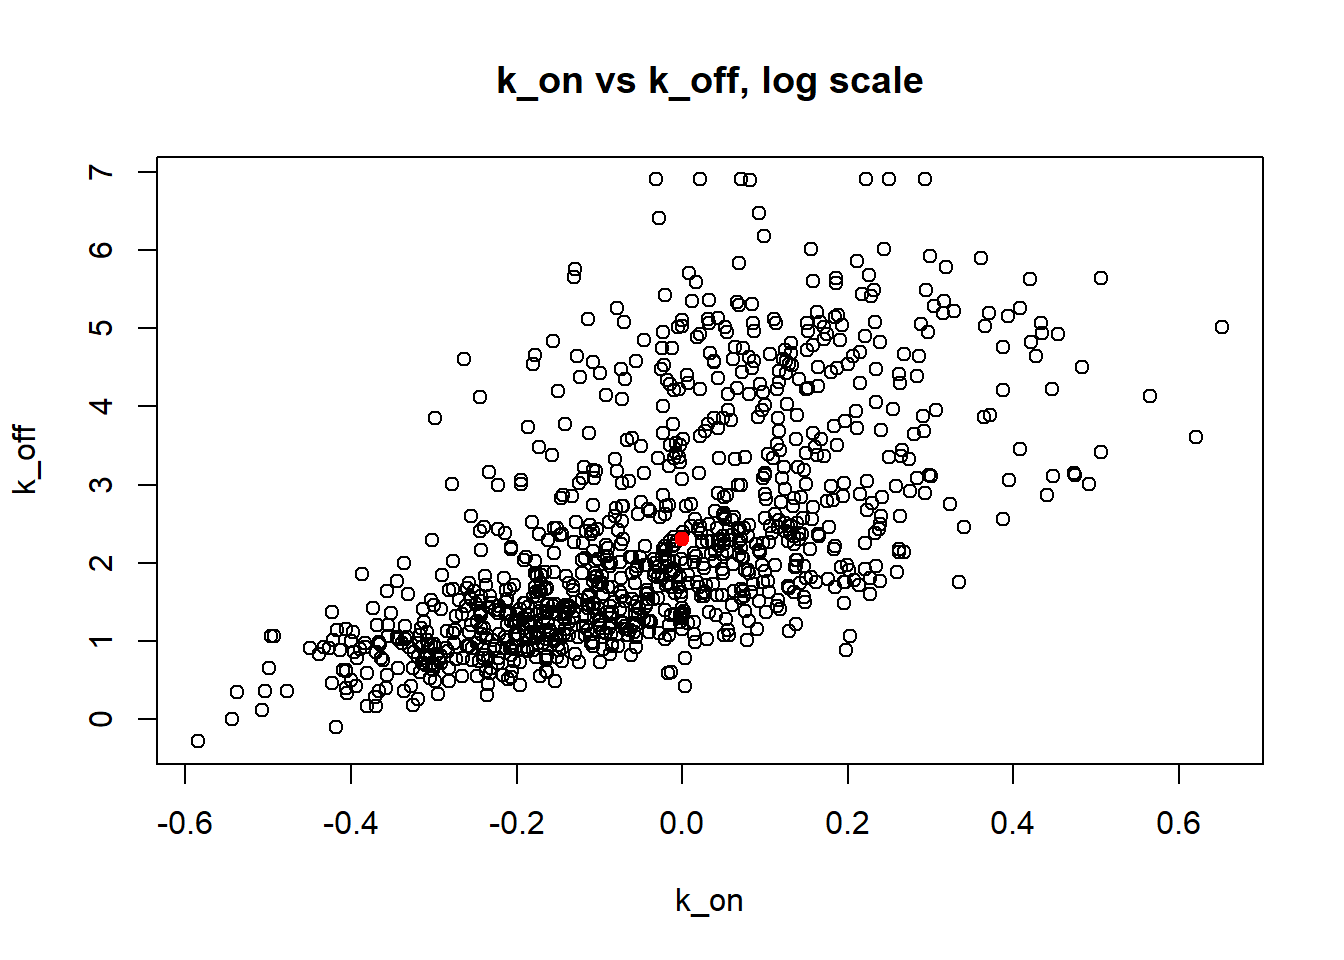
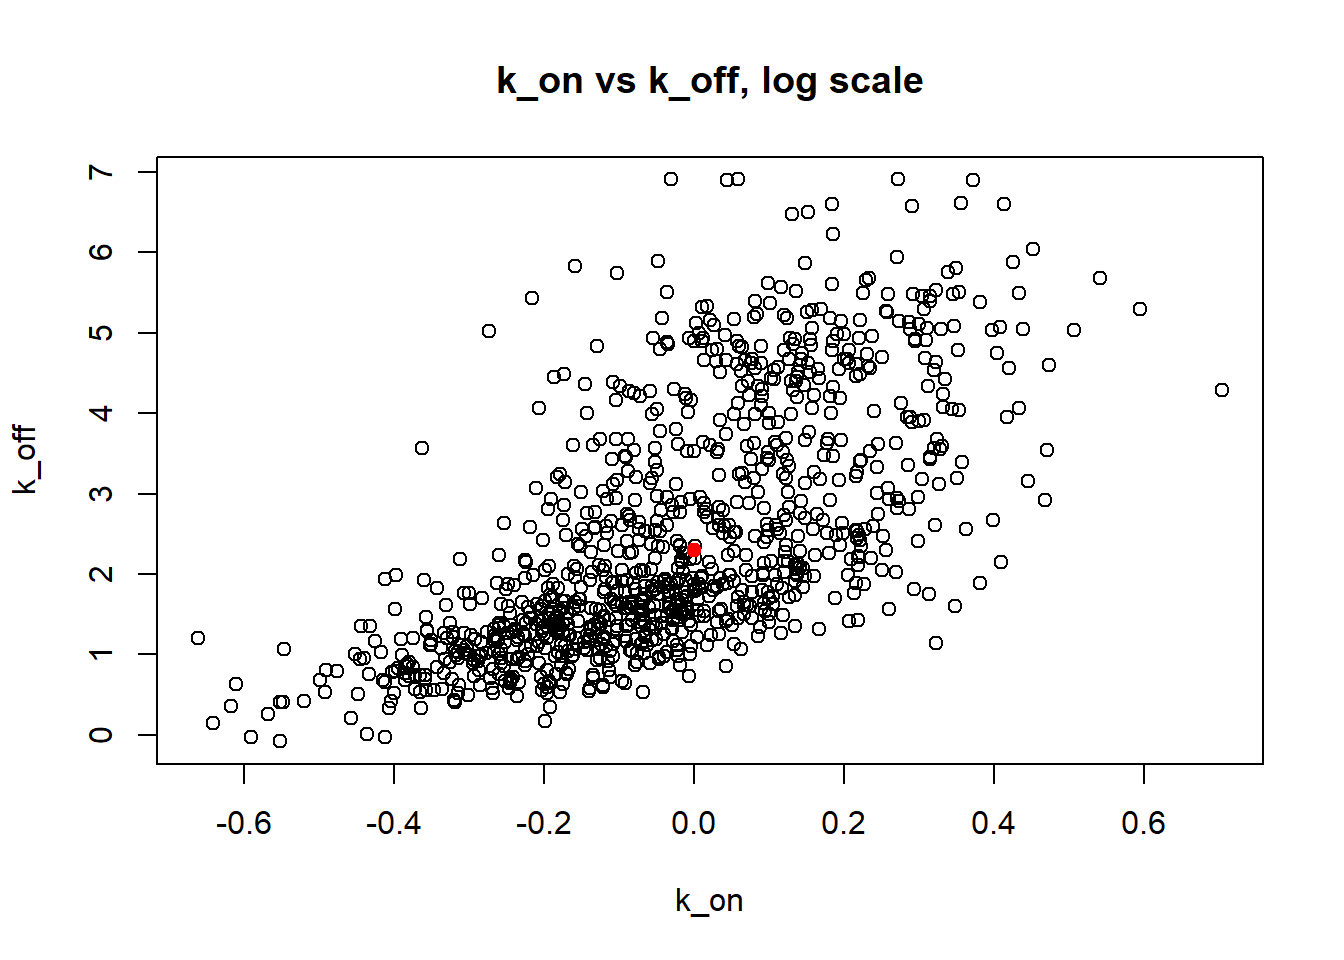
Build site.

diff --git a/docs/MLE_estimates.html b/docs/MLE_estimates.html
@@ -344,7 +344,7 @@ div.section {
 <div class="tab-content">
 <div id="summary" class="tab-pane fade in active">
 <p>
-<strong>Last updated:</strong> 2019-12-25
+<strong>Last updated:</strong> 2019-12-27
 </p>
 <p>
 <strong>Checks:</strong> <span class="glyphicon glyphicon-ok text-success" aria-hidden="true"></span> 6 <span class="glyphicon glyphicon-exclamation-sign text-danger" aria-hidden="true"></span> 1
@@ -459,32 +459,16 @@ analysis/MLE.py
 <div class="panel panel-default">
 <div class="panel-heading">
 <p class="panel-title">
-<a data-toggle="collapse" data-parent="#workflowr-checks" href="#strongRepositoryversionstrongahrefhttpsgithubcomMargareth2407ThesissingleRNAtree2bc1ff5e52b6066f161ee2dd56464614759ae28dtargetblank2bc1ff5a"> <span class="glyphicon glyphicon-ok text-success" aria-hidden="true"></span> <strong>Repository version:</strong> <a href="https://github.com/Margareth2407/Thesis_single_RNA/tree/2bc1ff5e52b6066f161ee2dd56464614759ae28d" target="_blank">2bc1ff5</a> </a>
+<a data-toggle="collapse" data-parent="#workflowr-checks" href="#strongRepositoryversionstrongahrefhttpsgithubcomMargareth2407ThesissingleRNAtreee3a1566265f0b73a2f52b107f99cc8451972a6fetargetblanke3a1566a"> <span class="glyphicon glyphicon-ok text-success" aria-hidden="true"></span> <strong>Repository version:</strong> <a href="https://github.com/Margareth2407/Thesis_single_RNA/tree/e3a1566265f0b73a2f52b107f99cc8451972a6fe" target="_blank">e3a1566</a> </a>
 </p>
 </div>
[2 lines of base64/hex data omitted]
 <div class="panel-body">
 <p>
 Great! You are using Git for version control. Tracking code development and connecting the code version to the results is critical for reproducibility. The version displayed above was the version of the Git repository at the time these results were generated. <br><br> Note that you need to be careful to ensure that all relevant files for the analysis have been committed to Git prior to generating the results (you can use <code>wflow_publish</code> or <code>wflow_git_commit</code>). workflowr only checks the R Markdown file, but you know if there are other scripts or data files that it depends on. Below is the status of the Git repository when the results were generated:
 </p>
 <pre><code>
-Ignored files:
-    Ignored:    .RData
-    Ignored:    .Rhistory
-    Ignored:    .Rproj.user/
-    Ignored:    analysis/.RData
-    Ignored:    analysis/.Rhistory
-
-Untracked files:
-    Untracked:  analysis/MLE_bootstrap.py
-    Untracked:  analysis/MLE_bootstrap_N_variability.Rmd
-
-Unstaged changes:
-    Modified:   Data_sim.Rmd
-    Deleted:    analysis/Data_sim.Rmd
-    Modified:   analysis/MLE.py
-    Modified:   analysis/MLE_bootstrap.Rmd
-
+working directory clean
 </code></pre>
 <p>
 Note that any generated files, e.g. HTML, png, CSS, etc., are not included in this status report because it is ok for generated content to have uncommitted changes.
@@ -526,44 +510,44 @@ There are no past versions. Publish this analysis with <code>wflow_publish()</co
 <div id="i-small-k_on-and-k_off-case" class="section level2">
 <h2>I) Small <span class="math inline">\(k_{on}\)</span> and <span class="math inline">\(k_{off}\)</span> case:</h2>
 <p><img src="figure/MLE_estimates.Rmd/unnamed-chunk-2-1.png" width="672" style="display: block; margin: auto;" /></p>
-<pre><code>[1] &quot;true k_on is 0.1; k_on mean 0.101 k_on median 0.1&quot;</code></pre>
+<pre><code>[1] &quot;true k_on is 0.1; k_on mean 0.102 k_on median 0.1&quot;</code></pre>
 <p><img src="figure/MLE_estimates.Rmd/unnamed-chunk-2-2.png" width="672" style="display: block; margin: auto;" /></p>
-<pre><code>[1] &quot;true k_off is 0.1; k_off mean 0.103 k_off median 0.101&quot;</code></pre>
+<pre><code>[1] &quot;true k_off is 0.1; k_off mean 0.103 k_off median 0.1&quot;</code></pre>
 <p><img src="figure/MLE_estimates.Rmd/unnamed-chunk-2-3.png" width="672" style="display: block; margin: auto;" /></p>
-<pre><code>[1] &quot;true k_r is 100; k_r mean 99.989 k_r median 99.991&quot;</code></pre>
+<pre><code>[1] &quot;true k_r is 100; k_r mean 100.004 k_r median 100.047&quot;</code></pre>
 <p><img src="figure/MLE_estimates.Rmd/unnamed-chunk-2-4.png" width="672" style="display: block; margin: auto;" /><img src="figure/MLE_estimates.Rmd/unnamed-chunk-2-5.png" width="672" style="display: block; margin: auto;" /><img src="figure/MLE_estimates.Rmd/unnamed-chunk-2-6.png" width="672" style="display: block; margin: auto;" /></p>
 <p>Small <span class="math inline">\(k_{on}\)</span> and <span class="math inline">\(k_{off}\)</span> leads to bimodal distribution. As we see from histograms, mean and median MLE estimates are centered around true value.</p>
 </div>
 <div id="ii-large-k_on-and-k_off-case" class="section level2">
 <h2>II) Large <span class="math inline">\(k_{on}\)</span> and <span class="math inline">\(k_{off}\)</span> case:</h2>
 <p><img src="figure/MLE_estimates.Rmd/unnamed-chunk-3-1.png" width="672" style="display: block; margin: auto;" /></p>
-<pre><code>[1] &quot;true k_on is 10; k_on mean 11.683 k_on median 9.893&quot;</code></pre>
+<pre><code>[1] &quot;true k_on is 10; k_on mean 11.454 k_on median 9.993&quot;</code></pre>
 <p><img src="figure/MLE_estimates.Rmd/unnamed-chunk-3-2.png" width="672" style="display: block; margin: auto;" /></p>
-<pre><code>[1] &quot;true k_off is 10; k_off mean 70.771 k_off median 9.249&quot;</code></pre>
+<pre><code>[1] &quot;true k_off is 10; k_off mean 56.836 k_off median 9.513&quot;</code></pre>
 <p><img src="figure/MLE_estimates.Rmd/unnamed-chunk-3-3.png" width="672" style="display: block; margin: auto;" /></p>
-<pre><code>[1] &quot;true k_r is 100; k_r mean 264.192 k_r median 97.03&quot;</code></pre>
+<pre><code>[1] &quot;true k_r is 100; k_r mean 209.748 k_r median 98.66&quot;</code></pre>
 <p><img src="figure/MLE_estimates.Rmd/unnamed-chunk-3-4.png" width="672" style="display: block; margin: auto;" /><img src="figure/MLE_estimates.Rmd/unnamed-chunk-3-5.png" width="672" style="display: block; margin: auto;" /><img src="figure/MLE_estimates.Rmd/unnamed-chunk-3-6.png" width="672" style="display: block; margin: auto;" /></p>
 <p>Large <span class="math inline">\(k_{on}\)</span> and <span class="math inline">\(k_{off}\)</span> case lead to Poisson or negative binomial distribution and as we can see parameters are not identifiable.</p>
 </div>
 <div id="iii-large-value-if-k_off-and-small-k_on-case" class="section level2">
 <h2>III) Large value if <span class="math inline">\(k_{off}\)</span> and small <span class="math inline">\(k_{on}\)</span> case:</h2>
 <p><img src="figure/MLE_estimates.Rmd/unnamed-chunk-4-1.png" width="672" style="display: block; margin: auto;" /></p>
-<pre><code>[1] &quot;true k_on is 1; k_on mean 0.98 k_on median 0.959&quot;</code></pre>
+<pre><code>[1] &quot;true k_on is 1; k_on mean 0.994 k_on median 0.967&quot;</code></pre>
 <p><img src="figure/MLE_estimates.Rmd/unnamed-chunk-4-2.png" width="672" style="display: block; margin: auto;" /></p>
-<pre><code>[1] &quot;true k_off is 10; k_off mean 38.834 k_off median 6.684&quot;</code></pre>
+<pre><code>[1] &quot;true k_off is 10; k_off mean 44.223 k_off median 7.102&quot;</code></pre>
 <p><img src="figure/MLE_estimates.Rmd/unnamed-chunk-4-3.png" width="672" style="display: block; margin: auto;" /></p>
-<pre><code>[1] &quot;true k_r is 100; k_r mean 327.105 k_r median 72.758&quot;</code></pre>
+<pre><code>[1] &quot;true k_r is 100; k_r mean 358.228 k_r median 74.526&quot;</code></pre>
 <p><img src="figure/MLE_estimates.Rmd/unnamed-chunk-4-4.png" width="672" style="display: block; margin: auto;" /><img src="figure/MLE_estimates.Rmd/unnamed-chunk-4-5.png" width="672" style="display: block; margin: auto;" /><img src="figure/MLE_estimates.Rmd/unnamed-chunk-4-6.png" width="672" style="display: block; margin: auto;" /></p>
 <p>k_on parameter being estimated correctly, while k_off and k_r are non-identifiable.</p>
 </div>
 <div id="iv-small-value-if-k_off-and-big-k_on" class="section level2">
 <h2>IV) Small value if <span class="math inline">\(k_{off}\)</span> and big <span class="math inline">\(k_{on}\)</span></h2>
 <p><img src="figure/MLE_estimates.Rmd/unnamed-chunk-5-1.png" width="672" style="display: block; margin: auto;" /></p>
-<pre><code>[1] &quot;true k_on is 10; k_on mean 15.195 k_on median 10.128&quot;</code></pre>
+<pre><code>[1] &quot;true k_on is 10; k_on mean 14.546 k_on median 10&quot;</code></pre>
 <p><img src="figure/MLE_estimates.Rmd/unnamed-chunk-5-2.png" width="672" style="display: block; margin: auto;" /></p>
-<pre><code>[1] &quot;true k_off is 1; k_off mean 7.195 k_off median 1.156&quot;</code></pre>
+<pre><code>[1] &quot;true k_off is 1; k_off mean 6.756 k_off median 1.086&quot;</code></pre>
 <p><img src="figure/MLE_estimates.Rmd/unnamed-chunk-5-3.png" width="672" style="display: block; margin: auto;" /></p>
-<pre><code>[1] &quot;true k_r is 100; k_r mean 102.921 k_r median 100.021&quot;</code></pre>
+<pre><code>[1] &quot;true k_r is 100; k_r mean 103.39 k_r median 99.903&quot;</code></pre>
 <p><img src="figure/MLE_estimates.Rmd/unnamed-chunk-5-4.png" width="672" style="display: block; margin: auto;" /><img src="figure/MLE_estimates.Rmd/unnamed-chunk-5-5.png" width="672" style="display: block; margin: auto;" /><img src="figure/MLE_estimates.Rmd/unnamed-chunk-5-6.png" width="672" style="display: block; margin: auto;" /></p>
 <p>Ref. <a href="https://www.nature.com/articles/s41586-018-0836-1" class="uri">https://www.nature.com/articles/s41586-018-0836-1</a></p>
 <br>
